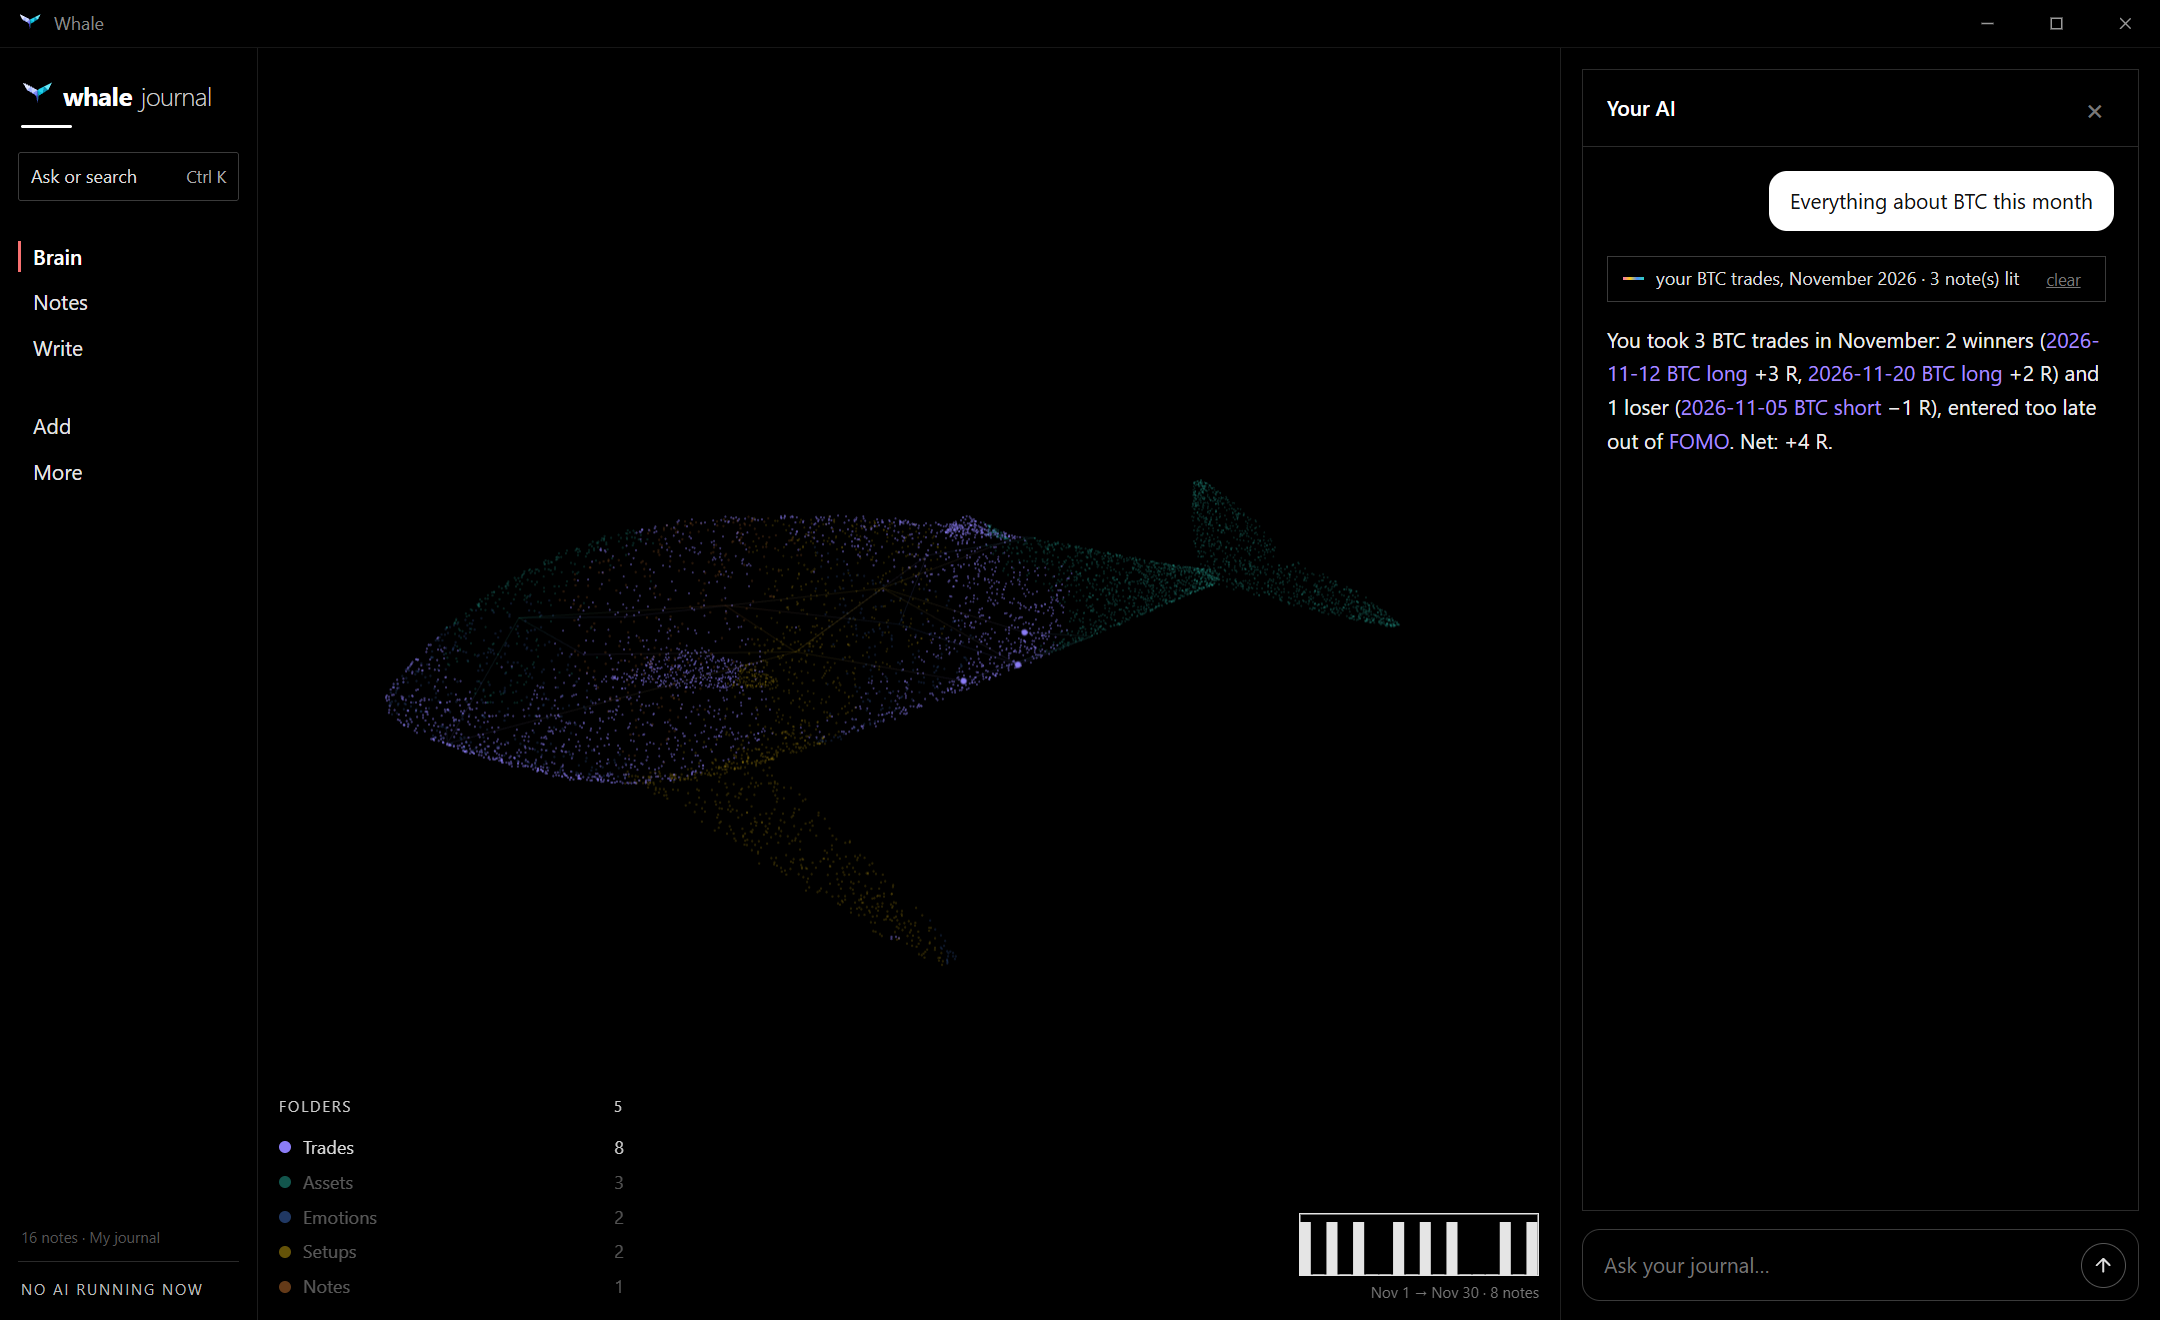
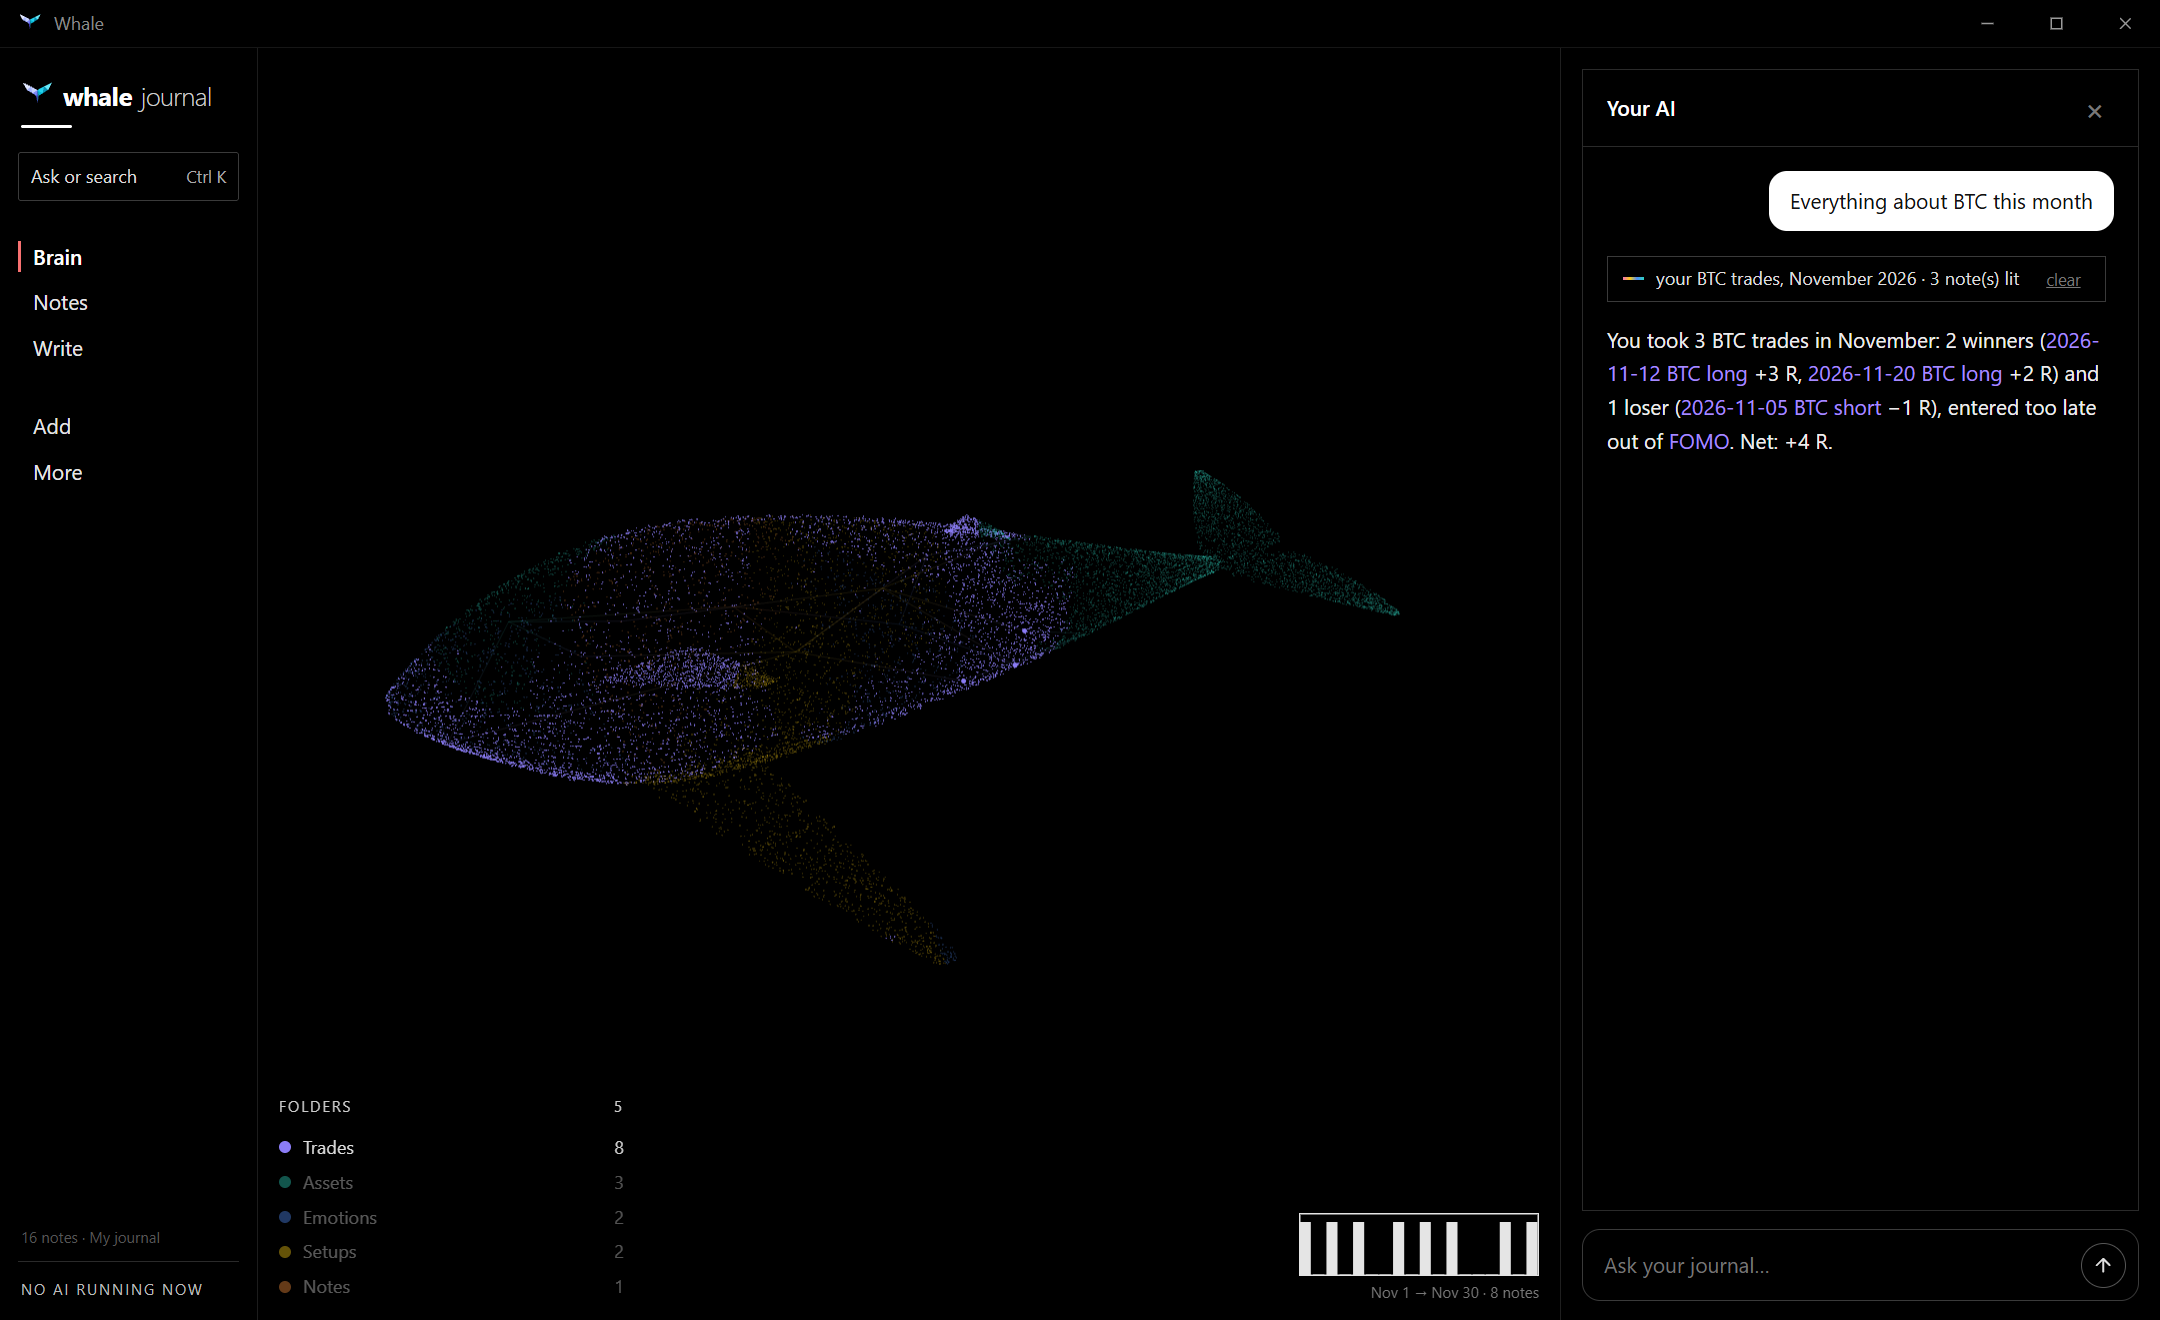
Brain: finer, denser whale and a light sweep from tail to head
- at least 16,000 points (was 7,000), drawn smaller and crisper
- a band of light travels from the tail to the head every 9 s, lighting
  up the points and threads it passes; driven by the real clock so its
  speed does not depend on the frame rate
- README screenshots regenerated

diff --git a/src/graph.js b/src/graph.js
@@ -3,7 +3,7 @@
    Folder legend (hover / click to highlight) and time histogram (draggable window). */
 window.Graph = (() => {
   const PALETTE = ['#8b7cf6', '#2dd4bf', '#4f8cf7', '#facc15', '#fb923c', '#4ade80', '#f472b6', '#f87171', '#22d3ee', '#a3e635', '#e879f9', '#94a3b8'];
-  let N_CLOUD = 7000; // grows with the vault
+  let N_CLOUD = 16000; // grows with the vault
   let BODY_N = 0;     // the first BODY_N points are the body (skin + pleats); fins and flukes come after
   let R, S, C, G, pts, linkLines, webLines, ray, inited = false, running = false;
   let zoom = 1, ry = 0.35, rx = 0.42, drag = false, moved = 0, lx = 0, ly = 0, auto = true, tt = 0;
@@ -85,26 +85,31 @@ window.Graph = (() => {
     ray = new THREE.Raycaster();
     G = new THREE.Group(); S.add(G);
     // Gentle swimming: the rear of the body and the flukes undulate (same motion for points and threads)
+    // + a band of light that travels from the tail to the head every 9 s (6 s of travel, then a short pause)
     const SWIM = `uniform float uTime;
-      vec3 swim(vec3 p){ float k = clamp((p.x - 0.1) / 2.2, 0.0, 1.0); p.y += 0.09 * k * k * sin(uTime * 1.2 - p.x * 1.8); return p; }`;
+      vec3 swim(vec3 p){ float k = clamp((p.x - 0.1) / 2.2, 0.0, 1.0); p.y += 0.09 * k * k * sin(uTime * 1.2 - p.x * 1.8); return p; }
+      float sweep(vec3 p){ float c = mod(uTime, 9.0) / 6.0; if (c > 1.0) return 0.0;
+        float x = mix(2.7, -2.2, c); float d = (p.x - x) / 0.22; return exp(-d * d); }`;
     const mat = new THREE.ShaderMaterial({
       uniforms: { uPR: { value: R.getPixelRatio() }, uDist: { value: 5 }, uTime: { value: 0 } },
       vertexShader: `attribute vec3 acolor; attribute float asize; attribute float aalpha;
         uniform float uPR; uniform float uDist; varying vec3 vC; varying float vA; ${SWIM}
-        void main(){ vC=acolor; vA=aalpha; vec4 mv=modelViewMatrix*vec4(swim(position),1.0);
-          gl_PointSize=asize*uPR*(uDist/-mv.z); gl_Position=projectionMatrix*mv; }`,
+        void main(){ float g = sweep(position);
+          vC = mix(acolor, vec3(1.0), g * 0.65); vA = min(1.0, aalpha + g * 0.55);
+          vec4 mv=modelViewMatrix*vec4(swim(position),1.0);
+          gl_PointSize=asize*(1.0 + g * 0.9)*uPR*(uDist/-mv.z); gl_Position=projectionMatrix*mv; }`,
       fragmentShader: `varying vec3 vC; varying float vA;
         void main(){ float d=length(gl_PointCoord-0.5); if(d>0.5) discard;
-          gl_FragColor=vec4(vC, vA*smoothstep(0.5,0.2,d)); }`,
+          gl_FragColor=vec4(vC, vA*smoothstep(0.5,0.3,d)); }`,
       transparent: true, depthWrite: false,
     });
     pts = new THREE.Points(makeGeometry(), mat); G.add(pts);
     const lineMat = (opacity, color) => new THREE.ShaderMaterial({
       uniforms: { uTime: mat.uniforms.uTime, uOpacity: { value: opacity }, uColor: { value: new THREE.Color(color || '#ffffff') }, uUseColor: { value: color ? 1 : 0 } },
-      vertexShader: `attribute vec3 color; varying vec3 vC; ${SWIM}
-        void main(){ vC=color; gl_Position=projectionMatrix*modelViewMatrix*vec4(swim(position),1.0); }`,
-      fragmentShader: `uniform float uOpacity; uniform vec3 uColor; uniform float uUseColor; varying vec3 vC;
-        void main(){ gl_FragColor=vec4(uUseColor > 0.5 ? uColor : vC, uOpacity); }`,
+      vertexShader: `attribute vec3 color; varying vec3 vC; varying float vG; ${SWIM}
+        void main(){ vC=color; vG=sweep(position); gl_Position=projectionMatrix*modelViewMatrix*vec4(swim(position),1.0); }`,
+      fragmentShader: `uniform float uOpacity; uniform vec3 uColor; uniform float uUseColor; varying vec3 vC; varying float vG;
+        void main(){ vec3 c = uUseColor > 0.5 ? uColor : vC; gl_FragColor=vec4(mix(c, vec3(1.0), vG * 0.6), min(1.0, uOpacity + vG * 0.5)); }`,
       transparent: true, depthWrite: false,
     });
     // Every link between notes, always visible as thin threads (colored by the notes' folders)
@@ -145,7 +150,7 @@ window.Graph = (() => {
   const folderName = (path) => (path.includes('/') ? path.split('/')[0] : 'Notes');
   function build() {
     const names = Object.keys(notes);
-    const needed = Math.max(7000, Math.ceil((names.length * 1.6) / 0.7));
+    const needed = Math.max(16000, Math.ceil((names.length * 1.6) / 0.7));
     if (needed !== N_CLOUD) { N_CLOUD = needed; pts.geometry.dispose(); pts.geometry = makeGeometry(); }
     const counts = {};
     names.forEach((n) => { const f = folderName(notes[n].path); counts[f] = (counts[f] || 0) + 1; });
@@ -287,13 +292,13 @@ window.Graph = (() => {
       const fi = folderOfPt[i]; const c = fi >= 0 && folders[fi] ? folders[fi].color : grey;
       const isNote = nameOfPt[i] !== undefined;
       let s, a;
-      if (!isNote) { s = 2; a = active < 0 ? 0.34 : fi === active ? 0.45 : 0.16; }
-      else if (active < 0) { s = 3.6; a = 0.85; }
-      else if (fi === active) { s = 5; a = 1; }
-      else { s = 1.9; a = 0.22; }
-      if (isNote && lit) { if (lit.has(nameOfPt[i])) { s = 6; a = 1; } else { s = Math.min(s, 2); a = Math.min(a, 0.22); } }
-      if (isNote && !inRange(i)) { a *= 0.12; s = Math.min(s, 2); }
-      if (i === hoverPt) { s = 9; a = 1; }
+      if (!isNote) { s = 1.3; a = active < 0 ? 0.55 : fi === active ? 0.7 : 0.2; }
+      else if (active < 0) { s = 2.4; a = 0.9; }
+      else if (fi === active) { s = 3.4; a = 1; }
+      else { s = 1.3; a = 0.22; }
+      if (isNote && lit) { if (lit.has(nameOfPt[i])) { s = 4.2; a = 1; } else { s = Math.min(s, 1.4); a = Math.min(a, 0.22); } }
+      if (isNote && !inRange(i)) { a *= 0.12; s = Math.min(s, 1.4); }
+      if (i === hoverPt) { s = 6; a = 1; }
       col[i * 3] = c.r; col[i * 3 + 1] = c.g; col[i * 3 + 2] = c.b; size[i] = s; al[i] = a;
     }
     pts.geometry.attributes.acolor.needsUpdate = pts.geometry.attributes.asize.needsUpdate = pts.geometry.attributes.aalpha.needsUpdate = true;
@@ -393,7 +398,7 @@ window.Graph = (() => {
     const d = zoom * Math.max(7.2 / (C.aspect || 1), 4.2);
     C.position.set(0, d * 0.08, d); C.lookAt(0, 0.05, 0);
     pts.material.uniforms.uDist.value = d;
-    pts.material.uniforms.uTime.value = tt;
+    pts.material.uniforms.uTime.value = performance.now() / 1000; // real time: same speed whatever the frame rate
     G.rotation.set(rx, ry, 0.03 * Math.sin(tt * 0.6)); G.position.set(-0.2, 0.3 + 0.03 * Math.sin(tt * 0.8), 0); G.updateMatrixWorld();
 
     // Hover: the note closest to the cursor
